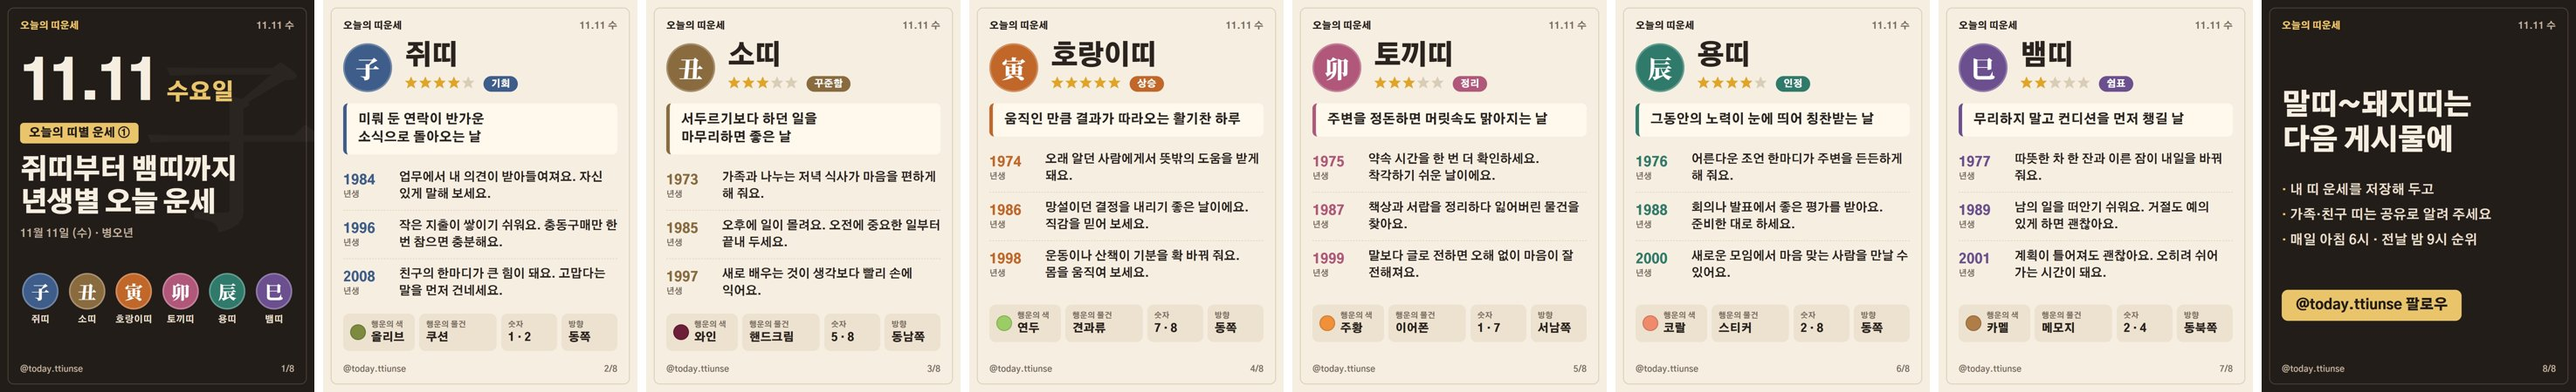
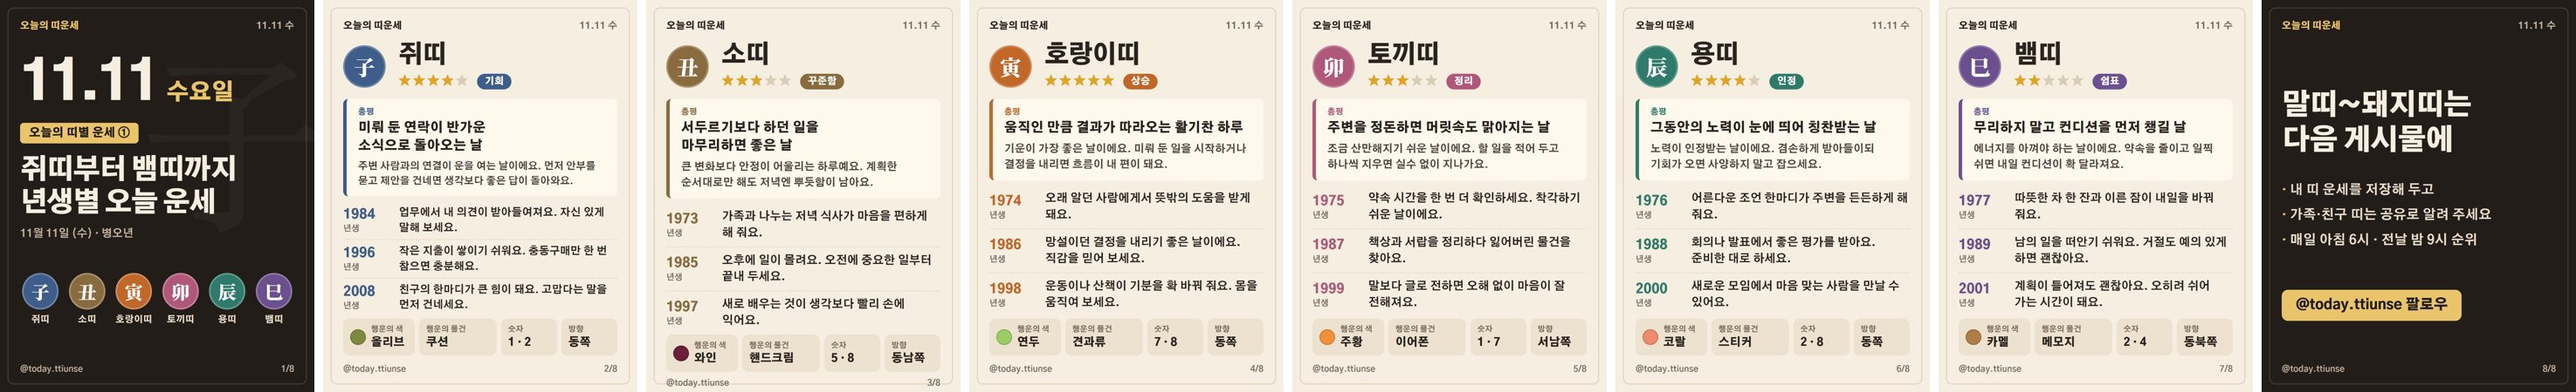
띠 카드에 총평(한두 문장) 추가

diff --git a/template/card.html b/template/card.html
@@ -57,24 +57,27 @@
 
   /* 띠 상세 */
   .tti .hd{display:flex;align-items:center;gap:4cqw;margin-top:3.6cqw}
-  .tti .hd .nm{font-size:8.6cqw;font-weight:900;letter-spacing:-.05em;line-height:1}
+  .tti .hd .nm{font-size:7.8cqw;font-weight:900;letter-spacing:-.05em;line-height:1}
   .tti .hd .meta{display:flex;align-items:center;gap:2.4cqw;margin-top:1.8cqw;font-size:4.2cqw}
   .tti .hd .meta .word{font-size:3cqw}
-  .tti .total{margin-top:3.6cqw;background:#fff8ec;border-left:1.2cqw solid var(--c);border-radius:1.6cqw;padding:2.4cqw 3.6cqw;font-size:4.1cqw;font-weight:800;line-height:1.4;text-wrap:balance}
-  .tti .yrs{margin-top:2.4cqw;display:flex;flex-direction:column}
-  .tti .yr{display:flex;align-items:center;gap:3.2cqw;padding:2.2cqw 0;border-bottom:.25cqw dashed var(--line)}
+  .tti .total{margin-top:3cqw;background:#fff8ec;border-left:1.2cqw solid var(--c);border-radius:1.6cqw;padding:2.4cqw 3.6cqw;font-size:4.1cqw;font-weight:800;line-height:1.4;text-wrap:balance}
+  .tti .total .tl{font-size:4.1cqw;font-weight:900}
+  .tti .total .sm{margin-top:1.2cqw;font-size:3.35cqw;font-weight:700;color:#4d4239;line-height:1.5;text-wrap:pretty}
+  .tti .total::before{content:"총평";display:block;font-size:2.5cqw;font-weight:900;color:var(--c);margin-bottom:.6cqw}
+  .tti .yrs{margin-top:1.6cqw;display:flex;flex-direction:column}
+  .tti .yr{display:flex;align-items:center;gap:3.2cqw;padding:1.7cqw 0;border-bottom:.25cqw dashed var(--line)}
   .tti .yr:last-child{border-bottom:0}
   .tti .yr .y{flex:none;width:14.5cqw;font-size:4.2cqw;font-weight:900;color:var(--c);line-height:1.35}
   .tti .yr .y small{display:block;font-size:2.6cqw;color:var(--dim);font-weight:700}
-  .tti .yr .x{font-size:3.75cqw;font-weight:700;line-height:1.45}
+  .tti .yr .x{font-size:3.6cqw;font-weight:700;line-height:1.45}
   .tti .lk{margin-top:auto;display:grid;grid-template-columns:1.15fr 1.25fr .9fr .9fr;gap:1.4cqw}
   .tti .lk > div{background:var(--paper2);border-radius:2cqw;padding:2cqw 2.2cqw;display:flex;align-items:center;gap:1.6cqw;min-width:0}
   .tti .lk > div > span:last-child{min-width:0}
   .tti .lk .k{font-size:2.4cqw;font-weight:800;color:var(--dim)}
   .tti .lk .v{margin-top:.6cqw;font-size:3.5cqw;font-weight:900;white-space:nowrap;overflow:hidden;text-overflow:ellipsis}
   .sw{flex:none;width:5cqw;height:5cqw;border-radius:50%;background:var(--sw);box-shadow:inset 0 0 0 .3cqw rgba(0,0,0,.15)}
-  .squeeze .tti .yr .x,.squeeze.tti .yr .x{font-size:3.45cqw}
-  .squeeze.tti .yr{padding:1.8cqw 0}
+  .squeeze.tti .yr .x{font-size:3.35cqw} .squeeze.tti .total .sm{font-size:3.15cqw}
+  .squeeze.tti .yr{padding:1.2cqw 0}
 
   /* 순위 */
   .h2{font-size:6.4cqw;font-weight:900;letter-spacing:-.045em;margin-top:3.4cqw}
@@ -137,9 +140,9 @@
     if (c.type === "tti") {
       const t = c.tti, L = t.lucky;
       return `<section class="card tti" style="--c:${t.color}"><div class="in">${top()}
-        <div class="hd">${medal(t, "15.5cqw")}<div><div class="nm">${t.key}띠</div>
+        <div class="hd">${medal(t, "13.5cqw")}<div><div class="nm">${t.key}띠</div>
           <div class="meta"><span class="stars">${st(t.stars)}</span><span class="word">${esc(t.word)}</span></div></div></div>
-        <div class="total">${esc(t.total)}</div>
+        <div class="total"><div class="tl">${esc(t.total)}</div><div class="sm">${esc(t.summary)}</div></div>
         <div class="yrs">${t.years.map((y) => `<div class="yr"><div class="y num">${y.year}<small>년생</small></div><div class="x">${esc(y.text)}</div></div>`).join("")}</div>
         <div class="lk">
           <div><span class="sw" style="--sw:${L.color.hex}"></span><span><div class="k">행운의 색</div><div class="v">${esc(L.color.name)}</div></span></div>

diff --git a/ROUTINE_PROMPT.md b/ROUTINE_PROMPT.md
@@ -14,10 +14,12 @@ push 하면 Actions 가 21:00 에 '내일의 띠별 운세 순위'를 올리고,
 ```json
 { "date": "D",
   "tti": { "쥐": { "score": 84, "word": "기회", "total": "34자 이하 총운 한 줄",
+                   "summary": "30~75자 띠 총평 한두 문장",
                    "years": { "1984": "48자 이하", "1996": "48자 이하", "2008": "48자 이하" } }, ... 12띠 } }
 ```
 - 띠 이름: 쥐 소 호랑이 토끼 용 뱀 말 양 원숭이 닭 개 돼지
 - score: 40~99 정수, **12띠 모두 다르게**. 날마다 순위가 고르게 바뀌도록 최근 inbox 파일과 비교해 같은 띠가 3일 연속 1위·12위가 되지 않게 한다. 최하위도 50점 안팎으로, 문장은 '조심하면 괜찮은' 톤.
+- summary: 띠 전체 총평 한두 문장(30~75자). total(제목) 내용을 풀어서, 오늘 흐름 + 어떻게 하면 좋은지를 함께 쓴다. 해요체.
 - word: 1~4자 키워드(기회, 정리, 쉼표 …), 최근 3일과 겹치지 않게.
 - years 문장: 그 나이대 생활에 맞게(10대 후반: 학업·친구 / 20~30대: 일·연애·돈 관리 / 40~50대: 가족·건강 습관·인간관계). 해요체, 구체적인 행동 한 가지를 권한다. 최근 7일 문장과 같은 문장을 쓰지 않는다.
 

diff --git a/README.md b/README.md
@@ -9,7 +9,7 @@
 | 당일 06:00 | ② 말띠~돼지띠 년생별 운세 | 8장 |
 
 - 띠마다 년생 3개: (올해−53)~(올해−18)년생 = 연속 36년. 2026년은 1973~2008년생(10대 후반~50대 초반). 해가 바뀌면 자동으로 1년씩 밀린다.
-- 띠 카드: 별점·키워드·총운 한 줄 · 년생별 한 줄 · 행운의 색/물건/숫자/방향
+- 띠 카드: 별점·키워드·총평(제목 한 줄 + 한두 문장) · 년생별 한 줄 · 행운의 색/물건/숫자/방향
 - 운세 문장·점수: 클라우드 예약 작업이 `inbox/<날짜>.json` 으로 씀 (ROUTINE_PROMPT.md)
 - 행운의 색·물건·숫자·방향: `scripts/zodiac.mjs` 가 날짜로 정함 (밤 순위와 아침 상세가 항상 같음)
 - 검사: 띠·년생 누락, 길이 초과, 점수 중복, 금지 표현(질병·사고·투자·로또 등)이면 발행 중단
